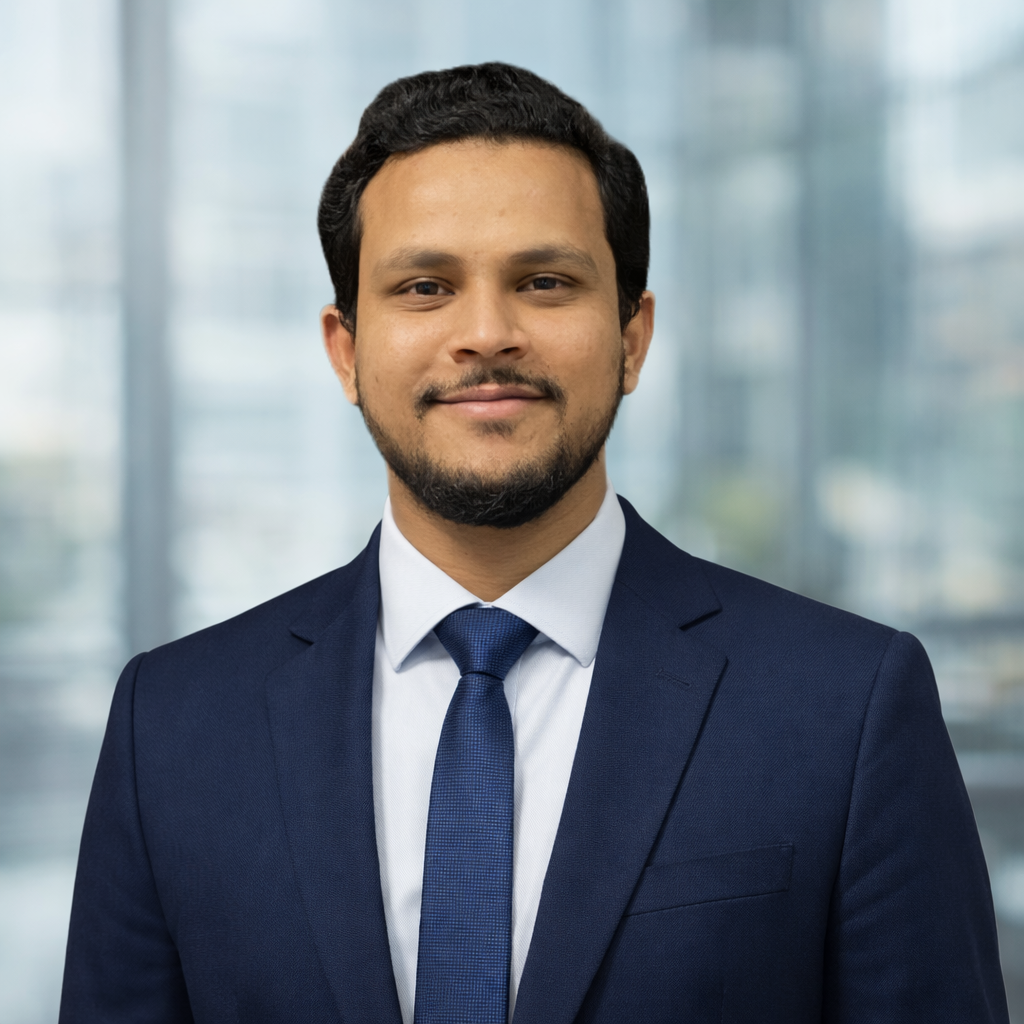
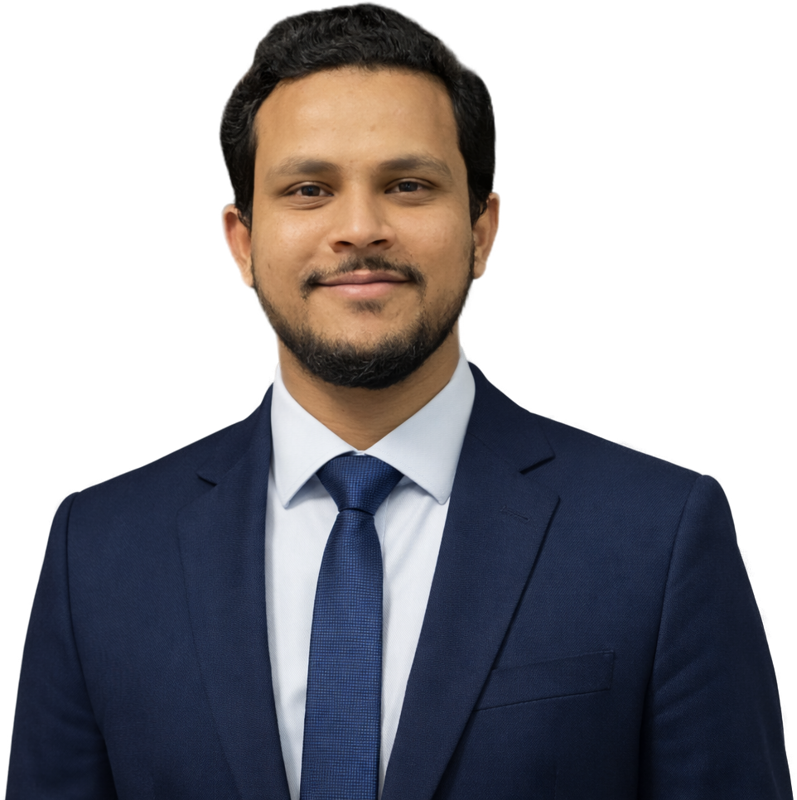
update 2

diff --git a/index.html b/index.html
@@ -36,11 +36,11 @@ h1{font-size:clamp(38px,6vw,68px);line-height:1.05;letter-spacing:-.035em;margin
 .g{background:var(--grad);-webkit-background-clip:text;color:transparent}
 .lede{font-size:18px;color:var(--sub);max-width:560px}.cta{display:flex;gap:12px;flex-wrap:wrap;margin:28px 0}
 .soc{display:flex;gap:18px;color:var(--sub);font-size:14px;flex-wrap:wrap}.soc a:hover{color:var(--a1)}
-.photo{position:relative;max-width:340px;margin-inline:auto}.photo:before{content:"";position:absolute;inset:-3px;border-radius:28px;background:var(--grad);filter:blur(22px);opacity:.45}
-.photo img{position:relative;width:100%;aspect-ratio:1;object-fit:cover;border-radius:26px;border:1px solid var(--bd);display:block}
+.photo{position:relative;max-width:400px;margin-inline:auto}.photo:before{content:"";position:absolute;left:8%;right:8%;top:12%;bottom:0;border-radius:50%;background:var(--grad);filter:blur(60px);opacity:.38}
+.photo img{position:relative;width:100%;height:auto;display:block;filter:drop-shadow(0 20px 40px rgba(0,0,0,.45));-webkit-mask-image:linear-gradient(#000 82%,transparent);mask-image:linear-gradient(#000 82%,transparent)}
 .stats{display:grid;grid-template-columns:repeat(4,1fr);gap:14px;margin-top:56px}
 .stat,.card{background:var(--card);border:1px solid var(--bd);border-radius:18px;padding:22px;transition:.25s}
-.stat b{display:block;font-size:34px;letter-spacing:-.03em}.stat span{color:var(--sub);font-size:14px}
+.stat b{display:block;font-size:34px;line-height:1.2;letter-spacing:-.03em;font-variant-numeric:tabular-nums}.stat b span{font-size:inherit;color:inherit}.stat>span{color:var(--sub);font-size:14px}
 section{padding:80px 0}.alt{background:var(--bg2);border-block:1px solid var(--bd)}
 .eyebrow{font-size:13px;color:var(--a2);letter-spacing:.12em;text-transform:uppercase}
 h2{font-size:clamp(28px,4vw,40px);letter-spacing:-.03em;margin:8px 0 36px;line-height:1.15}
@@ -82,13 +82,13 @@ footer{border-top:1px solid var(--bd);padding:28px 0;text-align:center;color:var
 <main id="top">
 <section class="hero"><div class="wrap">
   <div>
-    <span class="pill"><i class="dot"></i> Available for PhD &amp; research roles · Dhahran, KSA</span>
+    <span class="pill">📍 Dhahran, Saudi Arabia</span>
     <h1>Building <span class="g">production-grade GenAI</span> that people actually trust.</h1>
     <p class="lede">I’m Athar — a GenAI &amp; ML Engineer with 4 years across AWS, GCP and Azure. I ship enterprise RAG assistants, fine-tune LLMs, and publish multimodal research on mobile UI understanding.</p>
     <div class="cta"><a class="btn p" href="#projects">View projects →</a><a class="btn" href="assets/cv/Athar_CV.pdf" target="_blank" rel="noopener">Download CV</a></div>
     <div class="soc mono"><a href="mailto:atharparvezce@gmail.com">email</a><a href="https://github.com/atharparvezce" target="_blank" rel="noopener">github</a><a href="https://linkedin.com/in/atharparvezce" target="_blank" rel="noopener">linkedin</a><a href="https://huggingface.co/atharparvezce" target="_blank" rel="noopener">hugging face</a></div>
   </div>
-  <div class="photo"><img src="assets/img/profile.png" alt="Athar Parvez" width="340" height="340"></div>
+  <div class="photo"><img src="assets/img/profile.png" alt="Athar Parvez" width="400" height="400"></div>
 </div>
 <div class="wrap stats">
   <div class="stat rv"><b><span data-n="4">0</span>+</b><span>Years in production ML</span></div>
@@ -98,15 +98,15 @@ footer{border-top:1px solid var(--bd);padding:28px 0;text-align:center;color:var
 </div></section>
 
 <section id="about"><div class="wrap">
-  <div class="eyebrow mono">// about</div><h2>Research depth, engineering discipline.</h2>
+  <div class="eyebrow mono">// about</div><h2>From prototype to production.</h2>
   <div class="about rv">
     <div>
-      <p>I design GenAI systems end to end — from ingestion and retrieval to grounded generation, evaluation, and monitoring. At <strong>King Fahd Causeway Authority</strong> I run an enterprise RAG assistant on <strong>Azure AI Foundry</strong> for 200+ employees, alongside an enterprise data-governance program on <strong>Informatica CDGC</strong>.</p>
-      <p>Before that I spent three years at <strong>Tata Consultancy Services</strong> shipping fraud-detection, churn, and LLM fine-tuning (LoRA/QLoRA) models to production on AWS and GCP.</p>
+      <p>I’m a <strong>GenAI &amp; ML Engineer</strong> with 4 years of experience turning machine learning into systems businesses rely on. I own the full lifecycle: data, retrieval, modeling, evaluation, deployment, and monitoring.</p>
+      <p>At <strong>King Fahd Causeway Authority</strong>, I built an enterprise RAG assistant on <strong>Azure AI Foundry</strong> used by 200+ employees, and I lead an enterprise data-governance program on <strong>Informatica CDGC</strong> covering 150+ data assets.</p>
     </div>
     <div>
-      <p>My <strong>M.S. thesis at KFUPM</strong> produced MUIAnno, an expert-annotated mobile UI benchmark, and an MLLM workflow-decomposition framework for automated annotation — both released as arXiv preprints.</p>
-      <p>I care about measurable quality: faithfulness, retrieval precision, F1, latency. If it can’t be evaluated, it isn’t finished.</p>
+      <p>At <strong>Tata Consultancy Services</strong>, I spent three years shipping fraud detection, churn prediction, and LoRA/QLoRA fine-tuned LLMs to production on <strong>AWS and GCP</strong>, serving financial-services clients.</p>
+      <p>I work to measurable targets: faithfulness, precision, F1, latency, and data quality. If it can’t be measured, monitored, and maintained, it isn’t finished.</p>
     </div>
   </div>
 </div></section>
@@ -178,7 +178,7 @@ footer{border-top:1px solid var(--bd);padding:28px 0;text-align:center;color:var
 
 <section id="contact"><div class="wrap contact">
   <div class="eyebrow mono">// contact</div><h2>Let’s build something <span class="g">intelligent</span>.</h2>
-  <p>Open to PhD positions, research collaborations, and GenAI engineering roles.</p>
+  <p>Open to GenAI engineering roles, consulting, and research collaborations.</p>
   <div class="cta"><a class="btn p" href="mailto:atharparvezce@gmail.com">atharparvezce@gmail.com</a><a class="btn" href="https://linkedin.com/in/atharparvezce" target="_blank" rel="noopener">LinkedIn</a><a class="btn" href="https://github.com/atharparvezce" target="_blank" rel="noopener">GitHub</a></div>
 </div></section>
 </main>
